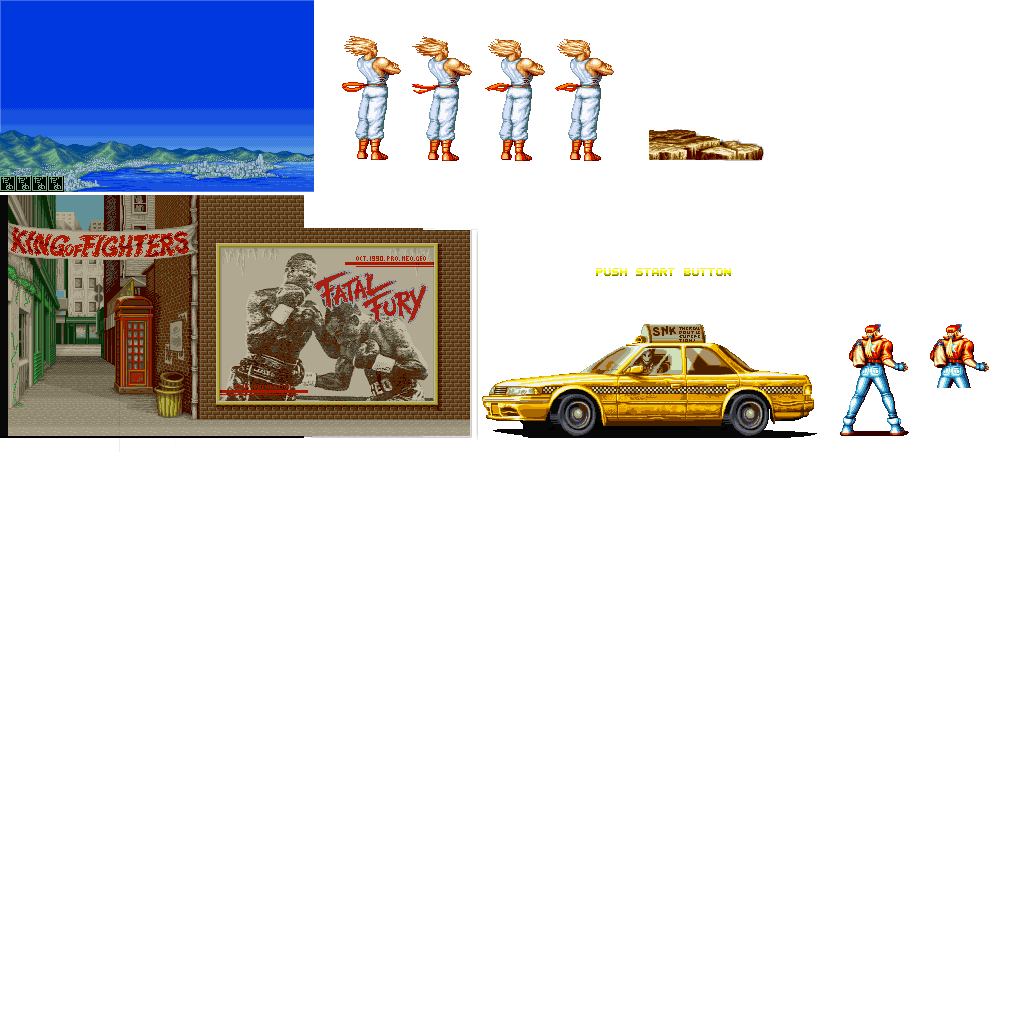
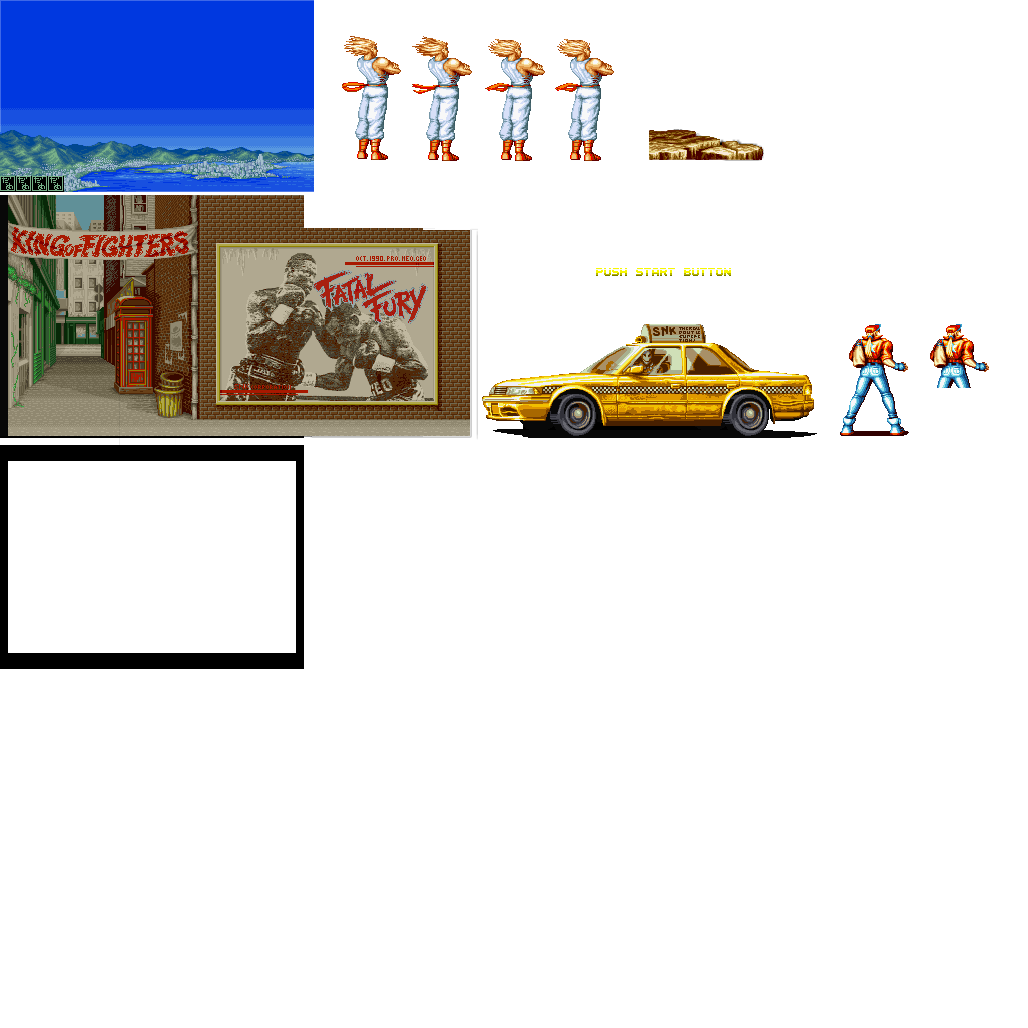
Intro 1 Work
Intro 1 Good side of elements and borders of intro 1 and 2

Changed region(s): [[0.0, 0.4358, 0.3113, 0.6537]]

diff --git a/ModuleFFIntro.cpp b/ModuleFFIntro.cpp
@@ -33,19 +33,22 @@ ModuleFFIntro::ModuleFFIntro()
 	//Start Animation
 	
 	start.PushBack({ 590, 260, 146, 21 });
-	start.PushBack({ 0, 498, 236, 44 });
-	start.speed = 0.04f;
+	start.PushBack({ 0, 700, 236, 44 });
+	start.speed = 0.06f;
 
 	//Player Animation
 
 	/*positionplayer.x = -40;
 	positionplayer.y = 225;*/
 	
-	player.PushBack({ 340, 34, 61, 127 });
-	player.PushBack({ 411, 35, 62, 127 });
-	player.PushBack({ 485, 38, 61, 124 });
-	player.PushBack({ 554, 38, 61, 124 });
-	player.speed = 0.04f;
+	player.PushBack({ 340, 37, 62, 127 });
+	player.PushBack({ 411, 38, 62, 127 });
+	player.PushBack({ 484, 38, 62, 127 });
+	player.PushBack({ 553, 38, 62, 127 });
+	player.PushBack({ 484, 38, 62, 127 });
+	player.PushBack({ 411, 38, 62, 127 });
+	player.PushBack({ 484, 38, 62, 127 });
+	player.speed = 0.15f;
 
 	//Rock
 
@@ -57,6 +60,12 @@ ModuleFFIntro::ModuleFFIntro()
 	rock.w = 117;
 	rock.h = 31;
 
+	//Borders
+
+	borders.x = 0;
+	borders.y = 446;
+	borders.w = 304;
+	borders.h = 225;
 	
 }
 
@@ -87,19 +96,24 @@ update_status ModuleFFIntro::Update()
 	
 	// Drawing background - Intro Background
 	
-	App->render->Blit(graphics, 0, 0, &introwin, 0.75f);
+	App->render->Blit(graphics, 0, 16, &introwin, 0.75f);
 
 	//Drawing Rock
 
-	App->render->Blit(graphics, -2, 161, &rock, 0.75f);
+	App->render->Blit(graphics, -25, 177, &rock, 0.75f);
 
 	// Player animation
 
-	App->render->Blit(graphics, 50, 58, &(player.GetCurrentFrame()), 0.75f);
+	App->render->Blit(graphics, 27, 73, &(player.GetCurrentFrame()), 0.5f);
 
 	//Start animation
 
-	App->render->Blit(graphics, 72, 140, &(start.GetCurrentFrame()), 0.75f);
+	App->render->Blit(graphics, 72, 140, &(start.GetCurrentFrame()), 0.99f);
+
+
+	// Drawing borders - Intro broders
+
+	App->render->Blit(graphics, 0, 0, &borders, 0.75f);
 
 	if (App->input->keyboard[SDL_SCANCODE_SPACE] == 1)
 	{

diff --git a/ModuleFFIntro2.cpp b/ModuleFFIntro2.cpp
@@ -47,6 +47,13 @@ ModuleFFIntro2::ModuleFFIntro2()
 	player2.PushBack({ 840, 323, 69, 114 });
 	player2.speed = 0.04f;
 
+	//Borders
+
+	borders.x = 0;
+	borders.y = 446;
+	borders.w = 304;
+	borders.h = 225;
+
 }
 
 ModuleFFIntro2::~ModuleFFIntro2()
@@ -78,7 +85,7 @@ update_status ModuleFFIntro2::Update()
 	
 	// Drawing background - Intro Background2
 	
-	App->render->Blit(graphics, 0, 0, &introwin2, 0.75f);
+	App->render->Blit(graphics, 0, 16, &introwin2, 0.75f);
 
 	//Start animation
 
@@ -91,6 +98,10 @@ update_status ModuleFFIntro2::Update()
 	// Taxi animation
 
 	App->render->Blit(graphics, 300, 124, &taxi, 0.75f);
+
+	// Drawing borders - Intro broders
+
+	App->render->Blit(graphics, 0, 1, &borders, 0.75f);
 	
 
 	if (App->input->keyboard[SDL_SCANCODE_SPACE] == 1)

diff --git a/ModuleFFIntro2.h b/ModuleFFIntro2.h
@@ -25,6 +25,7 @@ public:
 	SDL_Texture * graphics = nullptr;
 	SDL_Rect introwin2;
 	SDL_Rect taxi;
+	SDL_Rect borders;
 	Animation start;
 	Animation player2;
 	Mix_Music* introsong;

diff --git a/ModuleFFIntro.h b/ModuleFFIntro.h
@@ -25,6 +25,7 @@ public:
 	SDL_Texture * graphics = nullptr;
 	SDL_Rect introwin;
 	SDL_Rect rock;
+	SDL_Rect borders;
 	Animation start;
 	Animation player;
 	
